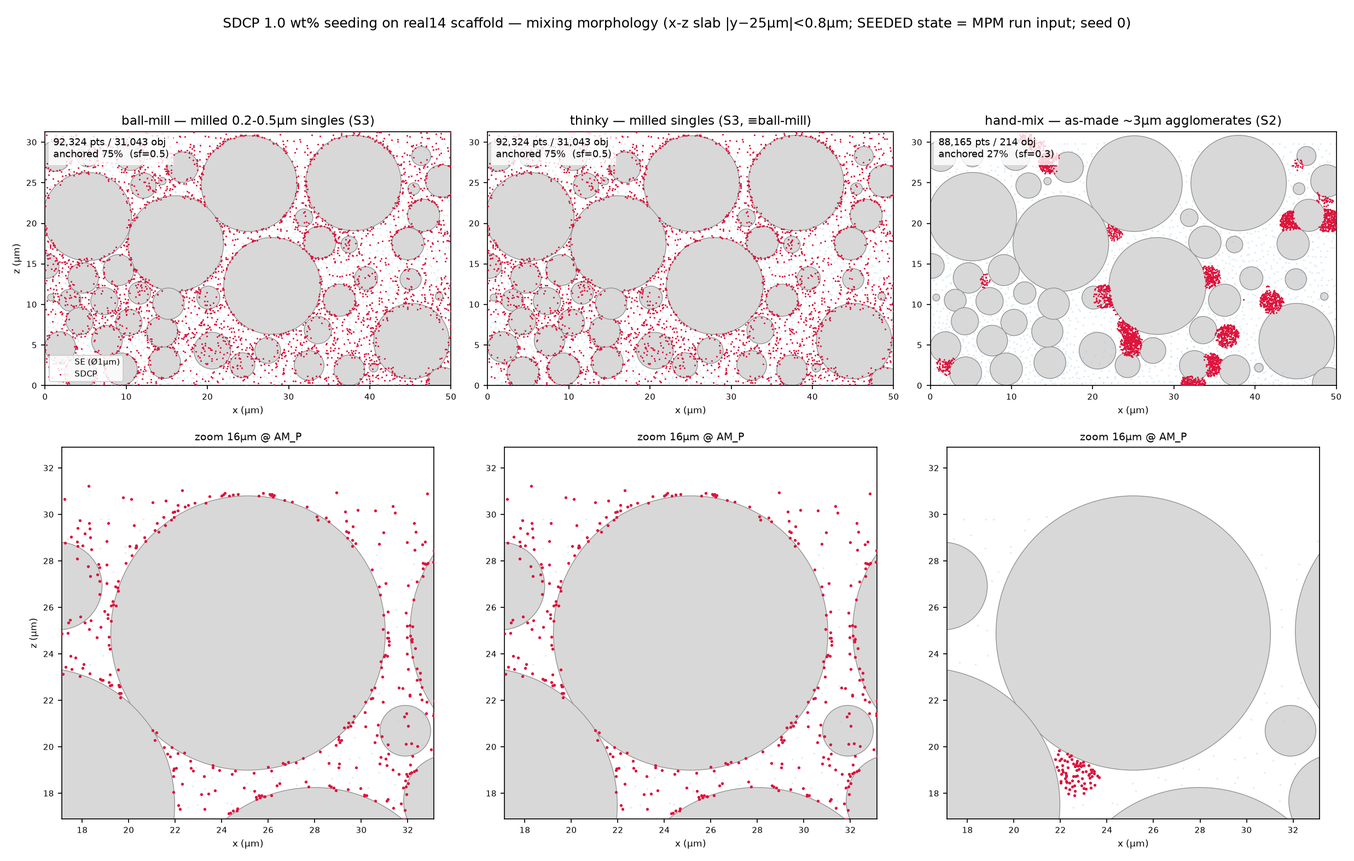
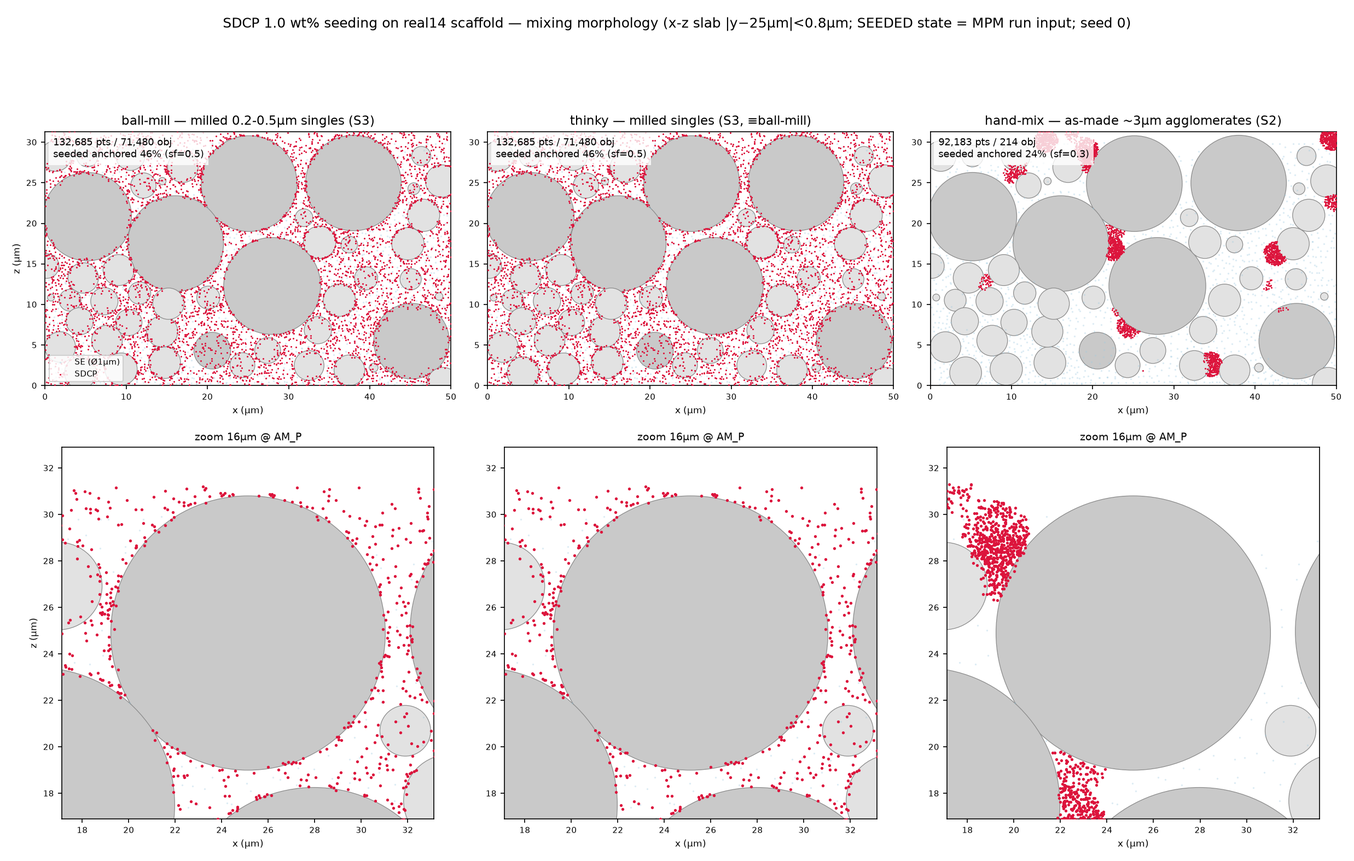
SDCP seeding: apply 2-agent review (honesty marks + realized-share metadata + exactness fixes)
Physics review (no blocker; 2 major honesty items) + code review (no major):
- SDCP_AGG_PACK=0.64 promoted to a named constant MARKED as an ASSUMED
  as-made packing (S2 anchors the ~3um SIZE only) — F1 hook, not fact
- seed_sdcp: singles-mode bulk now seed_blobs rejection sampling (count-
  preserving, consistent with agg-mode bulk; removes the +17pp realized-
  anchored bias vs nominal sf), EXACT member distribution over realized
  cluster centres with per-cluster radius (agg_d/2)*(m_i/n_agg)^(1/3)
  (kills n<n_agg footprint blowup + n_cl quantization; partial agglomerates
  keep the assumed packing), return_info dict with realized per-population
  counts / realized_anchor_frac / survival
- docstring HONESTY section: surface_frac = seed-time split not realized
  share; global add_pvs re-pin migrates draped-cap drops into survivors
  (realized agg density ~ pack/survival); low-shear full survival =
  bounding endpoint (size=S2 anchor, survival=inference)
- mpm3d metadata: seeding=info dict, agg_pack_assumed, agg_mechanics
  (E anchor is the PRIMARY's; assembly bonding uncalibrated), clump only
  in singles mode (agg_d wins); stale coat-branch comment fixed
- preview: exact per-radius-class KDTree in_am (kills 0.15-0.18% inside-AM
  leak), realized-share stats printed (near-AM metric renamed, incidental
  proximity separated), AM_P/AM_S tinted
- single.html + docs: size=S2-anchor vs survival=inference wording; stale
[…]

diff --git a/webapp/templates/single.html b/webapp/templates/single.html
@@ -253,7 +253,7 @@
         <label>VGCF wt%<br><input id="add-vgcf" type="number" min="0" max="10" step="0.1" value="0" style="width:64px" oninput="updateAdditiveGpuCmds()"></label>
         <label>Super P wt%<br><input id="add-superp" type="number" min="0" max="10" step="0.1" value="0" style="width:64px" oninput="updateAdditiveGpuCmds()"></label>
         <label>PTFE wt%<br><input id="add-ptfe" type="number" min="0" max="10" step="0.1" value="0" style="width:64px" oninput="updateAdditiveGpuCmds()"></label>
-        <label title="자가도핑 전도성 바인더 (manuscript): 전극 내 0.2-0.5µm 입자 분산 + NCM 앵커 몫 (Fig S3). mixing이 분산 상태를 결정 — ball-mill/thinky = 밀링된 singles, hand-mix = as-made ~3µm 응집 생존 (Fig S2). S12: SDCP 단독은 dough 형성 불가 → 실전 비교셋은 PTFE와 함께(DBE)">SDCP wt%<br><input id="add-sdcp" type="number" min="0" max="10" step="0.1" value="0" style="width:64px" oninput="updateAdditiveGpuCmds()"></label>
+        <label title="자가도핑 전도성 바인더 (manuscript): 전극 내 0.2-0.5µm 입자 분산 + NCM 앵커 몫 (Fig S3). mixing이 분산 상태를 결정 — ball-mill/thinky = 밀링된 singles, hand-mix = as-made ~3µm 응집 (크기=Fig S2 앵커, 저전단 생존=추론). S12: SDCP 단독은 dough 형성 불가 → 실전 비교셋은 PTFE와 함께(DBE)">SDCP wt%<br><input id="add-sdcp" type="number" min="0" max="10" step="0.1" value="0" style="width:64px" oninput="updateAdditiveGpuCmds()"></label>
         <label>mixing<br><select id="add-mixing" style="padding:3px" onchange="updateAdditiveGpuCmds()">
           <option value="ballmill">ball-mill (고전단)</option>
           <option value="thinky" selected>thinky (고전단 · SuperP=dry-coat)</option>
@@ -278,7 +278,7 @@
         SDCP 단독 zip은 형상 탐색용 — 실전(제조) 비교셋은 manuscript S12(단독 dough 불가)에 따라 <b>PTFE+SDCP(DBE)</b>.
         mixing 영향: <b>Super P</b>(thinky=dry-coat 코팅 / ball·hand=bulk 분산) · <b>PTFE</b>(fibrillation
         bm/thinky 1.0 / handmix 0.45) · <b>SDCP</b>(bm/thinky=밀링 0.2-0.5µm singles S3 / handmix=as-made
-        ~3µm 응집 생존 S2); <b>VGCF만 mixing 무관</b>(섬유는 코팅 불가 — A4 확정).
+        ~3µm 응집 — 크기=S2 앵커, 저전단 생존=추론); <b>VGCF만 mixing 무관</b>(섬유는 코팅 불가 — A4 확정).
       </div>
       <div style="margin-top:6px; font-size:0.76em; color:#64748b; line-height:1.5">
         이 패널은 <b>recipe-baked zip 생성 전용</b>이야: 입력 wt% → (밀도→개수→형상) 물리식으로 첨가제를

diff --git a/scripts/additives.py b/scripts/additives.py
@@ -41,6 +41,10 @@ SDCP_D = 0.30                    # SDCP in-electrode particle Ø (µm) — manus
 SDCP_AGG_D = 3.0                 # SDCP AS-MADE agglomerate Ø (µm) — manuscript Fig S2 (~3µm particles before
                                  # milling).  Low-shear mixing (hand-mix) has no milling energy → these survive
                                  # (seeded via seed_sdcp agg_d); high-shear (ball-mill/Thinky) mills → S3 singles.
+SDCP_AGG_PACK = 0.64             # ASSUMED internal packing of the as-made agglomerate (RCP-like) — §F1 hook,
+                                 # NOT anchored: S2 anchors the ~3µm SIZE only; a denser (even fully solid,
+                                 # 1.0) precipitation-grown particle is not excluded.  Sets n_agg = pack·
+                                 # (agg_d/d)³ and the member-ball radius in seed_sdcp.
 SDCP_SHELL = 0.20                # legacy coat-shell (µm) — coat-variant option only; manuscript default = PARTICLE
 
 
@@ -158,7 +162,7 @@ def seed_coat(n, box_um, dx_um, rng, am=None, shell_um=0.20, surface_frac=1.0,
 
 
 def seed_sdcp(n, box, dx, rng, am=None, in_am=None, surface_frac=0.5, clump=1,
-              agg_d=0.0, d=SDCP_D, return_ids=False):
+              agg_d=0.0, d=SDCP_D, return_ids=False, return_info=False):
     """SDCP particle seeding — the MIXING-dependent dispersion states (manuscript S2/S3).
     Single source of truth shared by mpm3d_compaction (seed-box units) and
     scripts/preview_sdcp_mixing.py (µm units): box/dx/d/agg_d must be in ONE frame.
@@ -167,23 +171,40 @@ def seed_sdcp(n, box, dx, rng, am=None, in_am=None, surface_frac=0.5, clump=1,
       agg_d == 0 — HIGH SHEAR (ball-mill / Thinky; manuscript electrode): the dry process
         mills the powder to 0.2-0.5µm SINGLES (Fig S3).  `surface_frac` of them are
         anchored ON the AM surfaces (seed_coat shell = d/2 — sulfonate chemisorption +
-        ordered-mixing decoration of the coarse host); the rest disperse uniform in-pore.
+        ordered-mixing decoration of the coarse host); the rest disperse in-pore via
+        seed_blobs rejection sampling (count-preserving — a 0D particle sits in the pore
+        space by definition; keeps the bulk population consistent with the agg-mode bulk).
         clump > 1 = the NCM-decoration CLUSTER hypothesis (§3.7): the anchored share seeds
         as `clump`-member clusters scattered ~1 particle Ø (gaussian σ = d) around
         AM-surface centres; the bulk share STAYS singles (the powder itself is dispersed).
       agg_d > 0 — LOW SHEAR (hand-mix): no milling energy → the AS-MADE ~agg_d
-        agglomerates (Fig S2) survive.  ALL SDCP seeds as agglomerates — n_agg =
-        0.64·(agg_d/d)³ primaries (0.64 = RCP packing of the as-made agglomerate)
-        uniform-in-sphere of radius agg_d/2.  Centres split surface_frac : rest between
-        AM surfaces (members poking into the host DROP → a cap DRAPED on the NCM, the
+        agglomerates (Fig S2) survive.  BOUNDING ENDPOINT (full survival; partial
+        breakage / fines mixtures not modelled).  ALL SDCP seeds as agglomerates: the
+        EXACT n members are distributed over n_cl ≈ n/n_agg clusters (n_agg =
+        SDCP_AGG_PACK·(agg_d/d)³), each uniform-in-sphere with radius
+        (agg_d/2)·(m_i/n_agg)^⅓ so the SEEDED internal packing is SDCP_AGG_PACK for full
+        and partial agglomerates alike.  Centres split surface_frac : rest between AM
+        surfaces (members poking into the host DROP → a cap DRAPED on the NCM, the
         soft-agglomerate adhesion contact) and the bulk pore space.
-    Points inside AM / outside the box are DROPPED (fibre convention — no wall curtains,
-    no buried mass); add_pvs volume-pinning downstream renormalises the recipe volume
-    over the survivors, so porosity stays honest regardless of drops.
-    Returns pts float32 (m,3) [+ ids int32: cluster/agglomerate group index — singles get
-    their AM-sphere index (anchored) or a unique id (bulk), mirroring the fibre-id ledger]."""
+    ⚠ HONESTY (§F1):
+      • SDCP_AGG_PACK=0.64 is an ASSUMED as-made internal packing (RCP-like) — S2 anchors
+        the ~3µm SIZE only; a denser/solid particle is not excluded.  Tunable hook.
+      • surface_frac is the SEED-TIME split, NOT the realized share: in-AM/out-of-box
+        drops are population-asymmetric (draped caps lose ~half their members; bulk
+        rejection sampling loses none).  Read the REALIZED split from `info`
+        (realized_anchor_frac) / run metadata, not from surface_frac.
+      • Volume: drops are re-pinned GLOBALLY downstream (add_pvs = recipe/len(pts)), so
+        total volume is exact but the dropped (draped) anchored volume migrates into ALL
+        survivors — realized agglomerate internal density ≈ SDCP_AGG_PACK/survival (can
+        exceed 1).  Porosity is volume-pinned and unaffected.
+    Returns pts float32 (m,3) [+ ids int32: cluster/agglomerate group index — anchored
+    singles carry their AM-sphere index, bulk singles a unique id (fibre-id ledger)]
+    [+ info dict: realized per-population counts / shares / survival]."""
     box_arr = np.asarray(box, np.float64)
-    parts, idparts, base = [], [], 0
+    agg = bool(agg_d and agg_d > 0.0)
+    info = {'n_target': int(n), 'mode': 'agglomerate_S2' if agg else 'singles_S3',
+            'surface_frac_nominal': round(float(surface_frac), 4)}
+    parts, idparts, tags, base = [], [], [], 0
 
     def _filt(P, ids):
         if len(P) == 0:
@@ -195,39 +216,47 @@ def seed_sdcp(n, box, dx, rng, am=None, in_am=None, surface_frac=0.5, clump=1,
             P, ids = P[k2], ids[k2]
         return P, ids
 
-    def _push(P, ids, n_groups):
+    def _push(P, ids, n_groups, tag):
         nonlocal base
         P, ids = _filt(np.asarray(P, np.float64), np.asarray(ids, np.int64))
         if len(P):
             parts.append(P.astype(np.float32))
             idparts.append((ids + base).astype(np.int32))
+            tags.append((tag, len(P)))
         base += int(n_groups)
 
-    def _ball(centres, members, radius):
-        """`members` pts uniform-in-sphere(radius) around each centre → (P, group ids)."""
-        rep = np.repeat(np.arange(len(centres)), members)
+    def _ball(centres, m_per, radius):
+        """m_per[i] pts uniform-in-sphere(radius[i]) around centre i → (P, group ids)."""
+        rep = np.repeat(np.arange(len(centres)), m_per)
         v = rng.normal(size=(len(rep), 3))
         v /= np.linalg.norm(v, axis=1, keepdims=True) + 1e-12
-        rad = radius * rng.uniform(0.0, 1.0, len(rep)) ** (1.0 / 3.0)
-        return np.asarray(centres, np.float64)[rep] + v * rad[:, None], rep
+        rr = np.repeat(radius, m_per) * rng.uniform(0.0, 1.0, len(rep)) ** (1.0 / 3.0)
+        return np.asarray(centres, np.float64)[rep] + v * rr[:, None], rep
 
     have_am = am is not None and len(am[0]) > 0
-    if agg_d and agg_d > 0.0:
-        n_agg = max(1, int(round(0.64 * (agg_d / d) ** 3)))     # primaries per as-made agglomerate
+    if agg:
+        n_agg = max(1, int(round(SDCP_AGG_PACK * (agg_d / d) ** 3)))   # design primaries per FULL agglomerate
         n_cl = max(1, int(round(n / n_agg)))                    # agglomerate count from the recipe
         n_cl_am = int(round(n_cl * surface_frac)) if have_am else 0
         n_cl_bulk = max(n_cl - n_cl_am, 0)
-        if n_cl_am > 0:
-            ctr = seed_coat(n_cl_am, box, dx, rng, am=am, shell_um=d / 2, surface_frac=1.0,
-                            in_am=in_am)
-            if len(ctr):
-                P, gid = _ball(ctr, n_agg, agg_d / 2.0)
-                _push(P, gid, len(ctr))
-        if n_cl_bulk > 0:
-            ctr = seed_blobs(n_cl_bulk, box, rng, in_am=in_am)
-            if len(ctr):
-                P, gid = _ball(ctr, n_agg, agg_d / 2.0)
-                _push(P, gid, len(ctr))
+        n_m_am = int(round(n * (n_cl_am / n_cl)))               # EXACT member split (Σ = n, no quantization)
+        info.update(n_agg_design=int(n_agg), agg_pack_assumed=SDCP_AGG_PACK,
+                    n_clusters_target=int(n_cl))
+        for cnt_c, cnt_m, tag in ((n_cl_am, n_m_am, 'am'), (n_cl_bulk, n - n_m_am, 'bulk')):
+            if cnt_c <= 0 or cnt_m <= 0:
+                continue
+            ctr = (seed_coat(cnt_c, box, dx, rng, am=am, shell_um=d / 2, surface_frac=1.0,
+                             in_am=in_am) if tag == 'am'
+                   else seed_blobs(cnt_c, box, rng, in_am=in_am))
+            if not len(ctr):
+                base += cnt_c
+                continue
+            m = np.full(len(ctr), cnt_m // len(ctr), np.int64)  # exact member distribution over the
+            m[:cnt_m % len(ctr)] += 1                           #   REALIZED centres (mass-conserving)
+            rad = (agg_d / 2.0) * (m / float(n_agg)) ** (1.0 / 3.0)   # partial/over-full → radius scaled;
+            P, gid = _ball(ctr, m, rad)                               #   SEEDED packing = SDCP_AGG_PACK always
+            _push(P, gid, len(ctr), tag)
+            info['n_clusters_' + tag] = int(len(ctr))
     else:
         n_am = int(round(n * surface_frac)) if have_am else 0
         n_bulk = max(n - n_am, 0)
@@ -239,24 +268,36 @@ def seed_sdcp(n, box, dx, rng, am=None, in_am=None, surface_frac=0.5, clump=1,
             if len(ctr):
                 rep = np.repeat(np.arange(len(ctr)), clump)[:n_am]
                 P = np.asarray(ctr, np.float64)[rep] + rng.normal(scale=d, size=(len(rep), 3))
-                _push(P, rep, len(ctr))
+                _push(P, rep, len(ctr), 'am')
+            else:
+                base += n_ctr
+            info['n_clusters_am'] = int(len(ctr))
         elif n_am > 0:
             P, sph = seed_coat(n_am, box, dx, rng, am=am, shell_um=d / 2, surface_frac=1.0,
                                in_am=in_am, return_ids=True)
             if len(P):
                 parts.append(P.astype(np.float32))
                 idparts.append((sph.astype(np.int64) + base).astype(np.int32))
+                tags.append(('am', len(P)))
             base += int(len(am[0]))
         if n_bulk > 0:
-            P = np.column_stack([rng.uniform(0, box_arr[0], n_bulk),
-                                 rng.uniform(0, box_arr[1], n_bulk),
-                                 rng.uniform(0, box_arr[2], n_bulk)])
-            _push(P, np.arange(n_bulk), n_bulk)
+            P = seed_blobs(n_bulk, box, rng, in_am=in_am)       # count-preserving (rejection sampling)
+            if len(P):
+                _push(P, np.arange(len(P)), len(P), 'bulk')
     if parts:
         pts, ids = np.concatenate(parts, 0).astype(np.float32), np.concatenate(idparts, 0)
     else:
         pts, ids = np.zeros((0, 3), np.float32), np.zeros(0, np.int32)
-    return (pts, ids) if return_ids else pts
+    n_a = sum(c for t, c in tags if t == 'am'); n_b = sum(c for t, c in tags if t == 'bulk')
+    info.update(n_seeded=int(len(pts)), n_anchored_seeded=int(n_a), n_bulk_seeded=int(n_b),
+                survival=round(len(pts) / max(n, 1), 4),
+                realized_anchor_frac=round(n_a / len(pts), 4) if len(pts) else 0.0)
+    out = [pts]
+    if return_ids:
+        out.append(ids)
+    if return_info:
+        out.append(info)
+    return out[0] if len(out) == 1 else tuple(out)
 
 
 def seed_fibres(n, box_um, dx_um, rng, in_am=None, L=VGCF_L, L_cv=0.0,
@@ -453,8 +494,9 @@ ADDITIVE_PROCESS = {
         # The manuscript anchors BOTH endpoints of the shear axis:
         #   S3 = IN-ELECTRODE 0.2-0.5µm dispersed singles (their high-shear dry process mills the powder),
         #   S2 = AS-MADE ~3µm particles (what a mixer that CANNOT mill inherits — hand-mix has no milling
-        #        energy, so the as-made agglomerates survive; dispersion is a property of the POWDER after
-        #        mixing, so it applies to the anchored AND the bulk share alike).
+        #        energy → full-survival BOUNDING ENDPOINT: the SIZE is the S2 anchor, survival-at-low-shear
+        #        is inference, partial breakage / fines mixtures not modelled.  Dispersion is a property of
+        #        the POWDER after mixing, so it applies to the anchored AND the bulk share alike).
         # surface_frac = AM-anchored share (sulfonate anchoring + ordered-mixing decoration of the coarse
         # NCM host by the fine guest; MAGNITUDE un-anchored §F1 hook — S3 shows both populations.  hand-mix
         # lower: a ~3µm guest on a 5µm host has adhesion/weight ~100× weaker than a 0.3µm guest → ordered
@@ -467,7 +509,7 @@ ADDITIVE_PROCESS = {
         'thinky':   dict(regime='particle', surface_frac=0.5, clump=1, agg_d=0.0,
                          morph='milled 0.2-0.5µm singles, NCM-anchor bias (S3; ≡ballmill — both high-shear)'),
         'handmix':  dict(regime='particle', surface_frac=0.3, clump=1, agg_d=SDCP_AGG_D,
-                         morph='as-made ~3µm agglomerates survive (S2 — no milling energy); weaker NCM decoration'),
+                         morph='as-made ~3µm agglomerates (size=S2 anchor; low-shear survival=inference); weaker NCM decoration'),
     },
     'PTFE': {    # binder fibril — fibril = fibrillation degree vs mixing SHEAR (dry-process; ∈(0,1], 1=full web)
         'ballmill': dict(regime='bulk', fibril=1.0,  morph='fibrillated binder web (high shear)'),

diff --git a/scripts/preview_sdcp_mixing.py b/scripts/preview_sdcp_mixing.py
@@ -74,37 +74,40 @@ def main():
     print(f"SDCP {args.wt} wt% → {cnt['SDCP']['vol_um3']:,.0f} µm³ = {cnt['SDCP']['vol_pct_of_solid']} vol% "
           f"of solid → n = {n:,} primaries (Ø {ad.SDCP_D} µm)")
 
-    tree = cKDTree(am_c)
-    rmax = float(am_r.max())
-    kq = min(8, len(am_c))
+    # EXACT in_am / surface distance: one KDTree per radius CLASS (real14: r=6 AM_P, r=2 AM_S).
+    # A point inside any class-r sphere is < r from its NEAREST same-class centre (k=1 exact) —
+    # avoids the k-nearest-by-centre false negatives a mixed-radius single tree has.
+    classes = [(float(r), cKDTree(am_c[am_r == r])) for r in np.unique(am_r)]
 
     def in_am(q):
-        dd, ii = tree.query(np.asarray(q, np.float64), k=kq,
-                            distance_upper_bound=rmax + 1e-9)
-        dd, ii = np.atleast_1d(dd), np.atleast_1d(ii)
-        ok = ii < len(am_c)
-        return bool(np.any(dd[ok] < am_r[ii[ok]]))
+        q = np.asarray(q, np.float64)
+        return any(t.query(q)[0] < r for r, t in classes)
+
+    def dist_surf(P):
+        """min over classes of (dist to nearest same-class centre − r); negative = inside."""
+        return np.min(np.column_stack([t.query(np.asarray(P, np.float64))[0] - r
+                                       for r, t in classes]), axis=1)
 
     results = {}
     for mix in MIXINGS:
         row = ad.additive_process('SDCP', mix)
         rng = np.random.default_rng(args.seed)                 # same seed → comparable panels
-        pts, ids = ad.seed_sdcp(n, box, 0.13, rng, am=(am_c, am_r), in_am=in_am,
-                                surface_frac=float(row.get('surface_frac', 0.5)),
-                                clump=int(row.get('clump', 1)),
-                                agg_d=float(row.get('agg_d', 0.0)), d=ad.SDCP_D,
-                                return_ids=True)
-        # SDCP → nearest AM SURFACE distance (µm): anchoring fingerprint
-        dd, ii = tree.query(pts.astype(np.float64), k=kq)
-        dsurf = (dd - am_r[ii]).min(axis=1)
-        anch = float(np.mean(dsurf < ad.SDCP_D))               # within ~1 particle Ø of an AM surface
-        q25, q50, q75 = np.percentile(dsurf, (25, 50, 75))
-        results[mix] = dict(pts=pts, ids=ids, dsurf=dsurf, row=row, anch=anch)
+        pts, ids, info = ad.seed_sdcp(n, box, 0.13, rng, am=(am_c, am_r), in_am=in_am,
+                                      surface_frac=float(row.get('surface_frac', 0.5)),
+                                      clump=int(row.get('clump', 1)),
+                                      agg_d=float(row.get('agg_d', 0.0)), d=ad.SDCP_D,
+                                      return_ids=True, return_info=True)
+        dsurf = dist_surf(pts)                                 # SDCP → nearest AM SURFACE (µm), exact
+        near = float(np.mean(dsurf < ad.SDCP_D))               # near-AM(<1 particle Ø) — includes INCIDENTAL
+        q25, q50, q75 = np.percentile(dsurf, (25, 50, 75))     #   proximity of bulk pts, ≠ the seeded split
+        results[mix] = dict(pts=pts, ids=ids, dsurf=dsurf, row=row, near=near, info=info)
         print(f"[{mix:8s}] {row.get('morph', '')}\n"
-              f"           → {len(pts):,} pts / {len(np.unique(ids)):,} objects | "
-              f"anchored(<{ad.SDCP_D}µm of AM) {100*anch:.1f}% | d_surf q25/50/75 = "
-              f"{q25:.2f}/{q50:.2f}/{q75:.2f} µm"
-              + (f" | agg Ø{row['agg_d']}µm × {max(1, int(round(0.64*(row['agg_d']/ad.SDCP_D)**3)))} primaries"
+              f"           → {len(pts):,} pts / {len(np.unique(ids)):,} objects | seeded anchored share "
+              f"{100*info['realized_anchor_frac']:.1f}% (nominal sf={info['surface_frac_nominal']}) | "
+              f"near-AM(<{ad.SDCP_D}µm incl. incidental) {100*near:.1f}% | d_surf q25/50/75 = "
+              f"{q25:.2f}/{q50:.2f}/{q75:.2f} µm | survival {100*info['survival']:.1f}%"
+              + (f" | agg Ø{row['agg_d']}µm × {info.get('n_agg_design', 0)} primaries "
+                 f"(pack {info.get('agg_pack_assumed', 0)} ASSUMED §F1)"
                  if row.get('agg_d', 0) > 0 else ""))
 
     # ── figure: row 1 = full x-z slice, row 2 = zoom on the biggest AM_P in the slab ──
@@ -129,7 +132,8 @@ def main():
                 dy = abs(c[1] - y0)
                 if dy < r:
                     rs = np.sqrt(r * r - dy * dy)
-                    ax.add_patch(Circle((c[0], c[2]), rs, facecolor='#d8d8d8',
+                    ax.add_patch(Circle((c[0], c[2]), rs,                     # AM_P darker, AM_S lighter
+                                        facecolor=('#c9c9c9' if t == 1 else '#e2e2e2'),
                                         edgecolor='#8a8a8a', lw=0.6, zorder=1))
             ax.scatter(se_c[se_sl, 0], se_c[se_sl, 2], s=2.5, c='#9ecae1', alpha=0.35,
                        lw=0, zorder=2, label='SE (Ø1µm)')
@@ -140,7 +144,8 @@ def main():
                 ax.set_title(ttl[mix], fontsize=11)
                 st = results[mix]
                 ax.text(0.02, 0.98, f"{len(pts):,} pts / {len(np.unique(st['ids'])):,} obj\n"
-                                    f"anchored {100*st['anch']:.0f}%  (sf={st['row']['surface_frac']})",
+                                    f"seeded anchored {100*st['info']['realized_anchor_frac']:.0f}% "
+                                    f"(sf={st['row']['surface_frac']})",
                         transform=ax.transAxes, va='top', fontsize=8.5,
                         bbox=dict(fc='white', alpha=0.8, ec='none'))
             else:

diff --git a/scripts/mpm3d_compaction.py b/scripts/mpm3d_compaction.py
@@ -844,11 +844,11 @@ def main(argv):
                     _clump = max(1, int(args.sdcp_clump) if args.sdcp_clump > 0 else int(_row.get('clump', 1)))
                     _aggd = (float(args.sdcp_agg_d) if args.sdcp_agg_d >= 0.0
                              else float(_row.get('agg_d', 0.0)))               # µm; 0 = milled singles (S3)
-                    pts, _fid = _ad.seed_sdcp(nobj, bx, dx, rng, am=am_box,
-                                              in_am=lambda q: _in_am_abs(q + off),
-                                              surface_frac=_sfrac, clump=_clump,
-                                              agg_d=_aggd / um_box, d=_ad.SDCP_D / um_box,
-                                              return_ids=True)
+                    pts, _fid, _seedinfo = _ad.seed_sdcp(nobj, bx, dx, rng, am=am_box,
+                                                         in_am=lambda q: _in_am_abs(q + off),
+                                                         surface_frac=_sfrac, clump=_clump,
+                                                         agg_d=_aggd / um_box, d=_ad.SDCP_D / um_box,
+                                                         return_ids=True, return_info=True)
                     _w = np.ones(len(pts), np.float32)
                     _coated = True                            # metadata: coat dict records the anchored share
                 elif kind == 'coat' or _proc_regime == 'coat_block':   # coat_embed RETIRED (fibres don't coat)
@@ -860,7 +860,7 @@ def main(argv):
                     # Stage-E).  surface_frac: mixing-driven spread (handmix = patchy).
                     _row = _ad.additive_process(nm, args.mixing)          # single source: process matrix
                     _sfrac = (float(args.sdcp_surface_frac) if (code == 5 and args.sdcp_surface_frac >= 0.0)
-                              else float(_row.get('surface_frac', 1.0)))    # SDCP rows 1.0/1.0/0.6; SuperP thinky 0.70
+                              else float(_row.get('surface_frac', 1.0)))    # SuperP thinky 0.70 (SDCP never routes here — kind='particle')
                     pts, _fid = _ad.seed_coat(nobj, bx, dx, rng, am=am_box, shell_um=_ad.SDCP_SHELL / um_box,
                                               surface_frac=_sfrac, in_am=lambda q: _in_am_abs(q + off),
                                               return_ids=True)              # µm shell → seed-frame units; buried/out-of-box DROPPED
@@ -948,10 +948,18 @@ def main(argv):
                     _add_meta[nm]['E_anchor'] = 'AFM_S6_23.6GPa'
                     _add_meta[nm]['variant'] = 'neutral' if args.sdcp_neutral else 'doped'
                     _add_meta[nm]['coh_sdcp'] = float(_coh)
-                    _add_meta[nm]['clump'] = int(_clump)
                     _add_meta[nm]['agg_d_um'] = round(float(_aggd), 2)           # 0 = milled S3 singles
-                    if _aggd > 0.0:                                              # S2 as-made agglomerate: primaries per cluster
-                        _add_meta[nm]['n_per_agglomerate'] = max(1, int(round(0.64 * (_aggd / _ad.SDCP_D) ** 3)))
+                    _add_meta[nm]['seeding'] = _seedinfo                         # REALIZED counts/shares — read
+                    #   realized_anchor_frac (NOT surface_frac: drops are population-asymmetric) + survival
+                    #   (add_pvs re-pins volume over survivors → realized agg density = pack/survival).
+                    if _aggd > 0.0:                                              # S2 as-made agglomerate mode
+                        _add_meta[nm]['n_per_agglomerate'] = int(_seedinfo.get('n_agg_design', 0))
+                        _add_meta[nm]['agg_pack_assumed'] = float(_ad.SDCP_AGG_PACK)   # §F1 hook — S2 anchors SIZE only
+                        _add_meta[nm]['agg_mechanics'] = 'primary_E_anchor_assembly_uncalibrated'
+                        #   E=23.6 GPa is the PRIMARY's AFM anchor; agglomerate-scale inter-primary bonding
+                        #   is represented only by the un-calibrated bulk coh_sdcp hook (§F1)
+                    else:                                                        # clump active only in singles mode
+                        _add_meta[nm]['clump'] = int(_clump)                     # (agg_d wins over clump by design)
                     _add_meta[nm]['anchor_status'] = 'INVALID_WRONG_MONOMER_recompute_pending'   # 2026-07-10: 이전 E_bind(−4.8/−3.0)는
                     #   곧은-pentyl C11H15O5S2로 계산됨 — 실제 SDCP는 ether-O 링커 + methyl-분지 2차 술폰산
                     #   (C11H16O6S2, Fig2a/S5).  ether-O의 Li 배위 채널 누락 → 값·기하 전면 재계산 필요.

diff --git a/docs/sdcp_master.md b/docs/sdcp_master.md
@@ -204,7 +204,7 @@ bollard/ICEP은 방향·실효성의 인용처.
 
 | 축 | 구현 | 상태 |
 |---|---|---|
-| **시딩 (mixing→형상)** | `additives.seed_sdcp` 단일 소스 (mpm3d + preview 공유). **bm/thinky(고전단)** = 밀링된 0.2-0.5µm singles(S3 앵커): AM-앵커 몫(`surface_frac` 0.5 — §F1 hook) seed_coat(shell=입자반지름) + 나머지 bulk 균일(in_am drop). **handmix(저전단)** = 밀링 에너지 없음 → **as-made ~3µm 응집(S2 앵커) 생존**: 전량 agg_d 클러스터(n_agg=0.64·(3/0.3)³≈640 primaries, 반지름 1.5µm 균일구), anchored 몫(0.3)은 AM 표면 드레이프 cap + bulk 몫도 응집(분산상태는 분말의 성질). `--sdcp-agg-d`/`--sdcp-clump`(§3.7 cluster 가설용, 기본 1) override. 미리보기: `scripts/preview_sdcp_mixing.py` → `docs/figures/sdcp_mixing_preview.png` (1wt%: bm/thinky 10.2만 singles·d_surf 중앙값 0.10µm ↔ handmix 214개 응집·0.57µm) | ✅ (리뷰 통과) |
+| **시딩 (mixing→형상)** | `additives.seed_sdcp` 단일 소스 (mpm3d + preview 공유). **bm/thinky(고전단)** = 밀링된 0.2-0.5µm singles(S3 앵커): AM-앵커 몫(`surface_frac` 0.5 — §F1 hook) seed_coat(shell=입자반지름) + 나머지 bulk in-pore(count-보존 rejection sampling). **handmix(저전단)** = 밀링 에너지 없음 → **as-made ~3µm 응집** (크기=S2 앵커, 저전단 생존=추론·상한): 전량 agg_d 클러스터(n_agg=pack·(3/0.3)³≈640, pack=0.64 **가정 §F1**), anchored 몫(0.3)은 AM 드레이프 cap + bulk 몫도 응집. 실현 수치는 metadata `seeding.realized_anchor_frac`/`survival`로 (시딩 분할 ≠ 실현 몫). `--sdcp-agg-d`/`--sdcp-clump`(§3.7 가설, 기본 1) override. 미리보기: `scripts/preview_sdcp_mixing.py` → `docs/figures/sdcp_mixing_preview.png` (1wt%: bm/thinky 13.3만 singles·실현anchored 46.5%·d_surf 중앙값 0.14µm ↔ handmix 214개 응집·23.9%·0.56µm) | ✅ (2-agent 리뷰 반영) |
 | **역학** | E=23.6 GPa ✅앵커 + **CFL dt 가드**(additive E > SE 스택 시 dt 캡; VGCF 10 소급) / σ_y=1.0 rigid-proxy ⚠ / coh_sdcp=bulk 필름 무결성(variant-무관 — γ-비율은 미래 boundary 항) | ✅ |
 | **variant** | `--sdcp-neutral`: STEP3 σ-가중용 provenance (econn에선 AM급 도체 유지 — 절연 취급은 13자릿수 오분류) | ✅ |
 | **전기 연결성 (econn)** | AM-AM 접촉 ∪ AM-[VGCF/SuperP/SDCP]-AM 다리 → 집전체 percolation → 연결/고립 (SE·PTFE 제외). 풀해상도 계산(payload step2), per-particle `econn` + summary | ✅ (S런 검증: AM골격 82% + carbon 다리→100%) |
